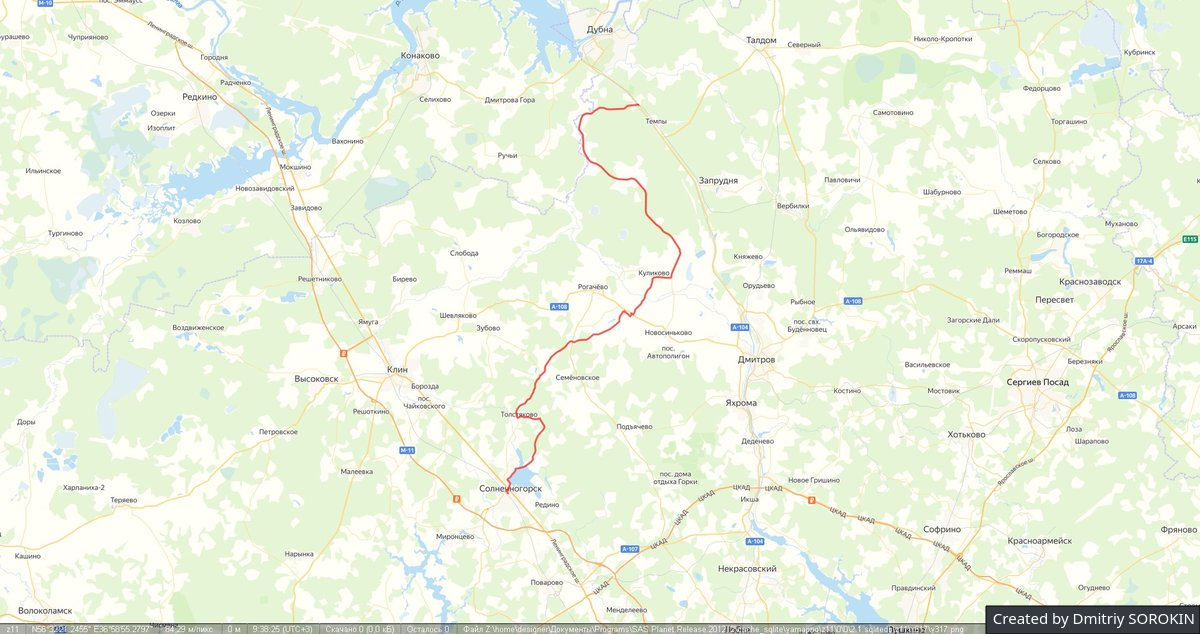
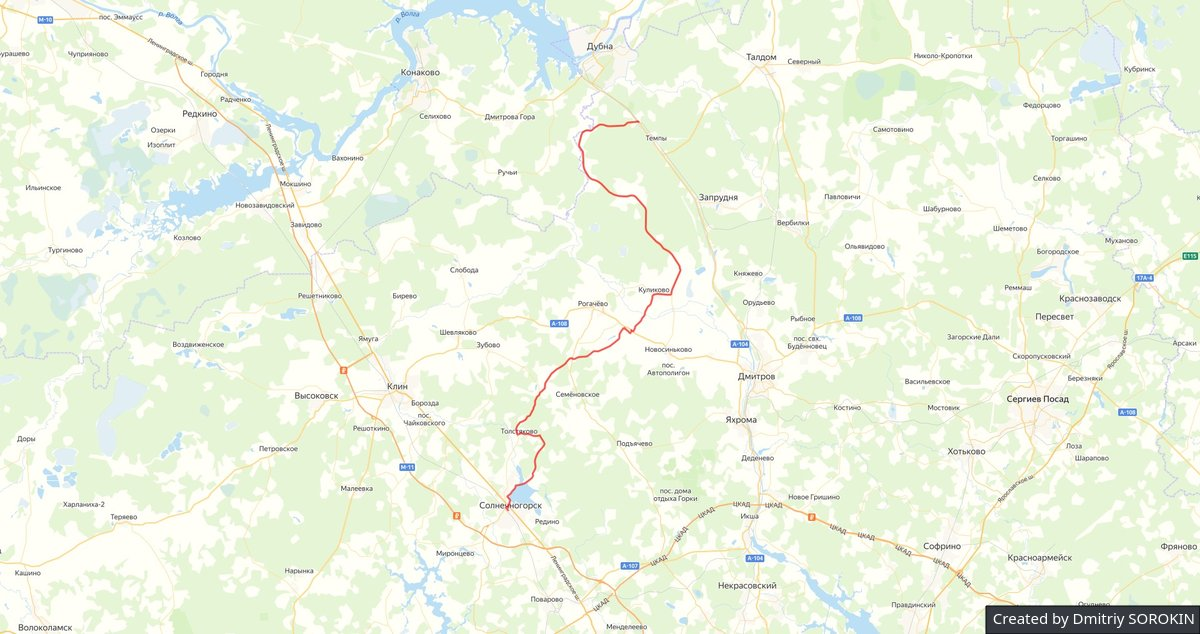
22-2

diff --git a/velopartisan.html b/velopartisan.html
@@ -42,6 +42,7 @@
                     <li class="nav-item dropdown">
                         <a class="nav-link dropdown-toggle a-shadow" id="on-click" onclick="playAudio();" href="#" id="dropdown07" data-toggle="dropdown" aria-haspopup="true" aria-expanded="false">Archive</a>
                         <div class="dropdown-menu" aria-labelledby="dropdown07">
+                            <a class="dropdown-item" id="on-click" onclick="playAudio();" href="#year-2022">- 2022</a>
                             <a class="dropdown-item" id="on-click" onclick="playAudio();" href="#year-2021">- 2021</a>
                             <a class="dropdown-item" id="on-click" onclick="playAudio();" href="#year-2019">- 2019</a>
                             <a class="dropdown-item" id="on-click" onclick="playAudio();" href="#year-2018">- 2018</a>
@@ -146,6 +147,24 @@
             <!-- About me -->
 
             <!-- Cards -->
+
+            <div class="container">
+                <div class="row">
+                    <div class="col-md">
+                        <div class="card mb-4 shadow-sm">
+                            <img class="card-img-top" src="img/velopartisan/card-img/2022-04-23_001.jpg" alt="Card image" id="year-2022">
+                            <div class="card-body">
+                                <h5 class="card-title">23.04.2022</h5>
+                                <p class="card-text">Route: Solnechnogorsk - Tolstyakovo - Kulikovo - Meldino. Weekend bike trip (TWD-1d). April 23, 2022.</p>
+                                <p class="card-p">Маршрут: Солнечногорск - Толстяково - Куликово - Мельдино. Велопоход выходного дня (ПВД-1д). 23 апреля 2022 год.</p>
+                                <!-- <a href="https://mega.nz/folder/nGw0wRID#44O4GlMuHKz8-qVohnMspw" target="_blank" class="btn btn-secondary btn-sm btn-block" id="on-click" onclick="playAudio();">Photos / Фотографии</a> -->
+                                <a href="tracks-gpx/solnechnogorsk-tolstyakovo-kulikovo-meldino.gpx" download class="btn btn-secondary btn-sm btn-block" id="on-click" onclick="playAudio();">Download route(gpx) / Скачать маршрут(gpx)</a>
+                            </div>
+                        </div>
+                    </div>
+                </div>
+            </div>
+
             <div class="container">
                 <div class="row">
                     <div class="col-md">
